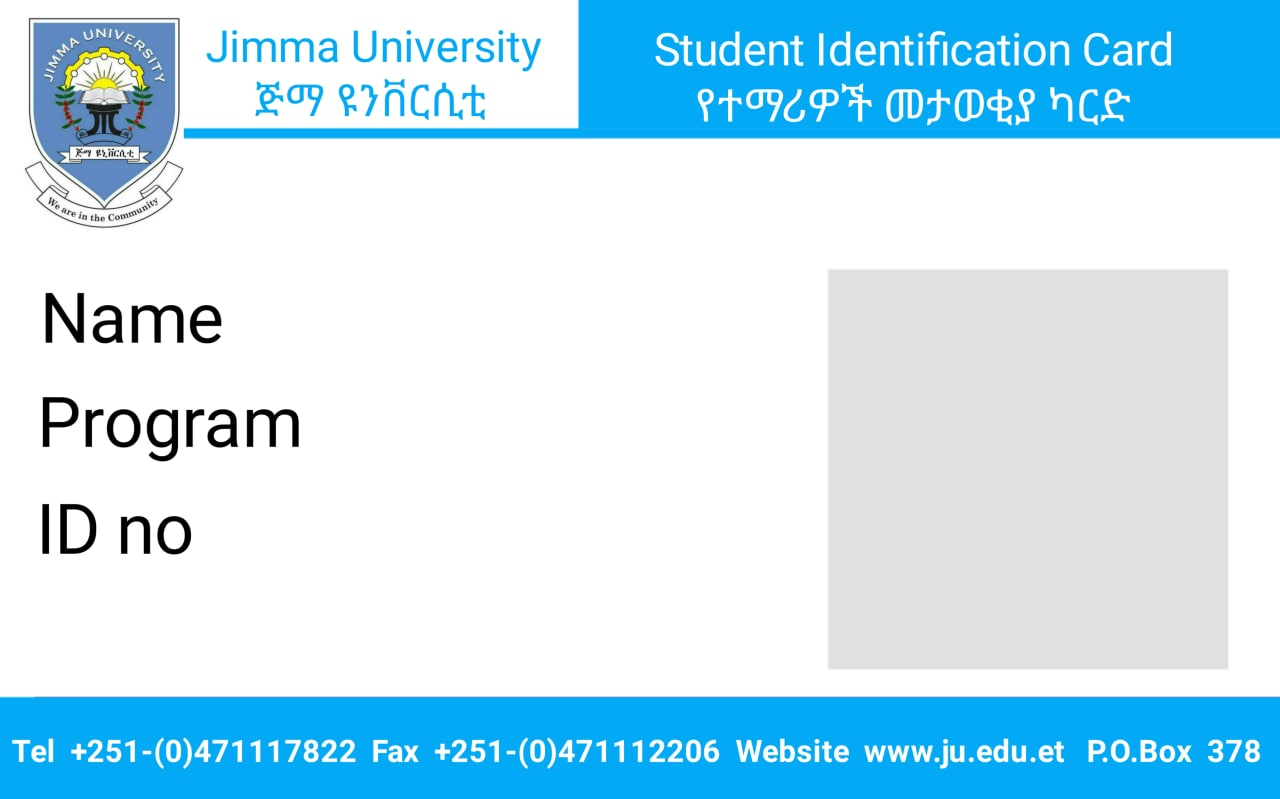
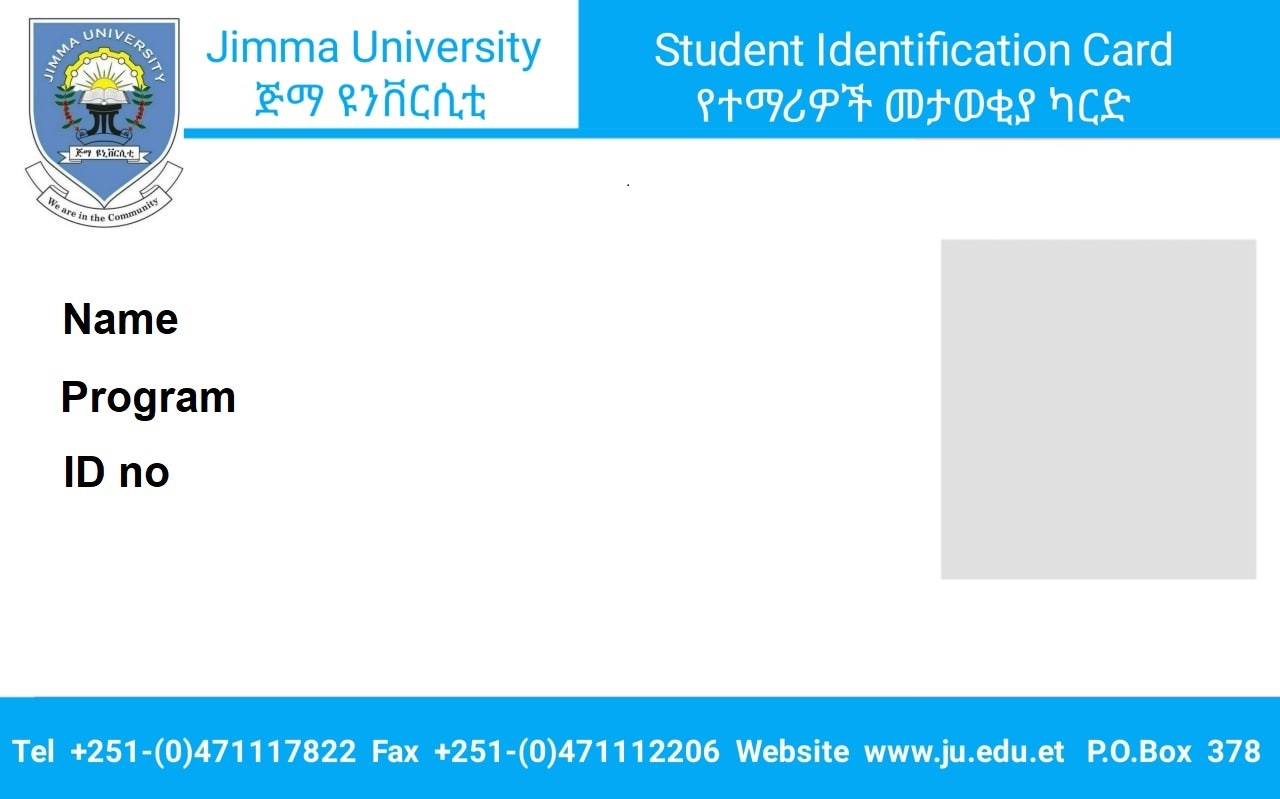
Minor fixes

diff --git a/resources/views/pages/id/tempPdf.blade.php b/resources/views/pages/id/tempPdf.blade.php
@@ -1,14 +1,17 @@
+
+
  {{-- Extends layout --}}
- {{-- @extends('layout.empty') --}}
+ @extends('layout.empty')
 
  {{-- Content --}}
  
 
-@foreach($selectedStudents as $stud)
+
+ @foreach($selectedStudents as $stud)
             {{-- {{ $stud[0]->first_name }} <br> --}}
             <div class="bg-white" style="width: 45%; display:inline-block; margin: 10px; float:left;">
                 <div class="col-md-12">
-                    <table class="table table-borderless">
+                    <table class="table table-borderless" style="border: 1px solid #333; border-bottom: none; margin: 0px;">
                         <thead>
                             <tr>
                                 <td>
@@ -23,10 +26,10 @@
                             </tr>
                         </thead>
                     </table>
-                    <table>
+                    <table class="table table-borderless" style="border: 1px solid #333; border-top: 1px dotted #333; margin: 0px;">
                         <tbody>
                             <tr>
-                                <td rowspan="4" style="padding:45px 0px; text-align:center; border: 1px solid #333; width: 30%;"> Photo </td>
+                                <td rowspan="4" style="padding:60px 0px; text-align:center; border: 1px solid #333; width: 30%;"> Photo </td>
                                 <td style="padding: 5px 15px">Name:<span class="font-weight-bold text-dark"> {{ $stud[0]->first_name." ".$stud[0]->middle_name." ".$stud[0]->last_name }}</span></td>
                             </tr>
                             <tr>
@@ -45,3 +48,5 @@
                 </div>
              </div>
         @endforeach
+
+      

diff --git a/config/asideMenu/id.php b/config/asideMenu/id.php
@@ -5,17 +5,17 @@ return [
     'items' => [
         // Dashboard
         [
-            'title' => 'Temporary ID',
+            'title' => 'Generate ID',
             'root' => true,
             'icon' => 'media/svg/icons/Design/Layers.svg', // or can be 'flaticon-home' or any flaticon-*
-            'page' => 'id/temporary',
+            'page' => 'id/generate',
             'new-tab' => false,
         ],
         [
-            'title' => 'Permanent ID',
+            'title' => 'Settings',
             'root' => true,
             'icon' => 'media/svg/icons/Design/Layers.svg', // or can be 'flaticon-home' or any flaticon-*
-            'page' => 'id/permanent',
+            'page' => 'id/settings',
             'new-tab' => false,
         ],
     ]

diff --git a/app/Http/Controllers/ID/GenerateIDController.php b/app/Http/Controllers/ID/GenerateIDController.php
@@ -55,8 +55,9 @@ class GenerateIDController extends Controller
         }
         // dd($selectedStudents);
         $pdf = PDF::loadView('pages.id.tempPdf', compact('selectedStudents'));
-        // download as PDF file
-        return $pdf->download('invoice.pdf');
+    
+        return view('pages.id.tempPdf', compact('selectedStudents'));    // return as blade view
+        // return $pdf->download('invoice.pdf');   // download as PDF file
     }
     
     public function generatePermanentId(Request $request){
